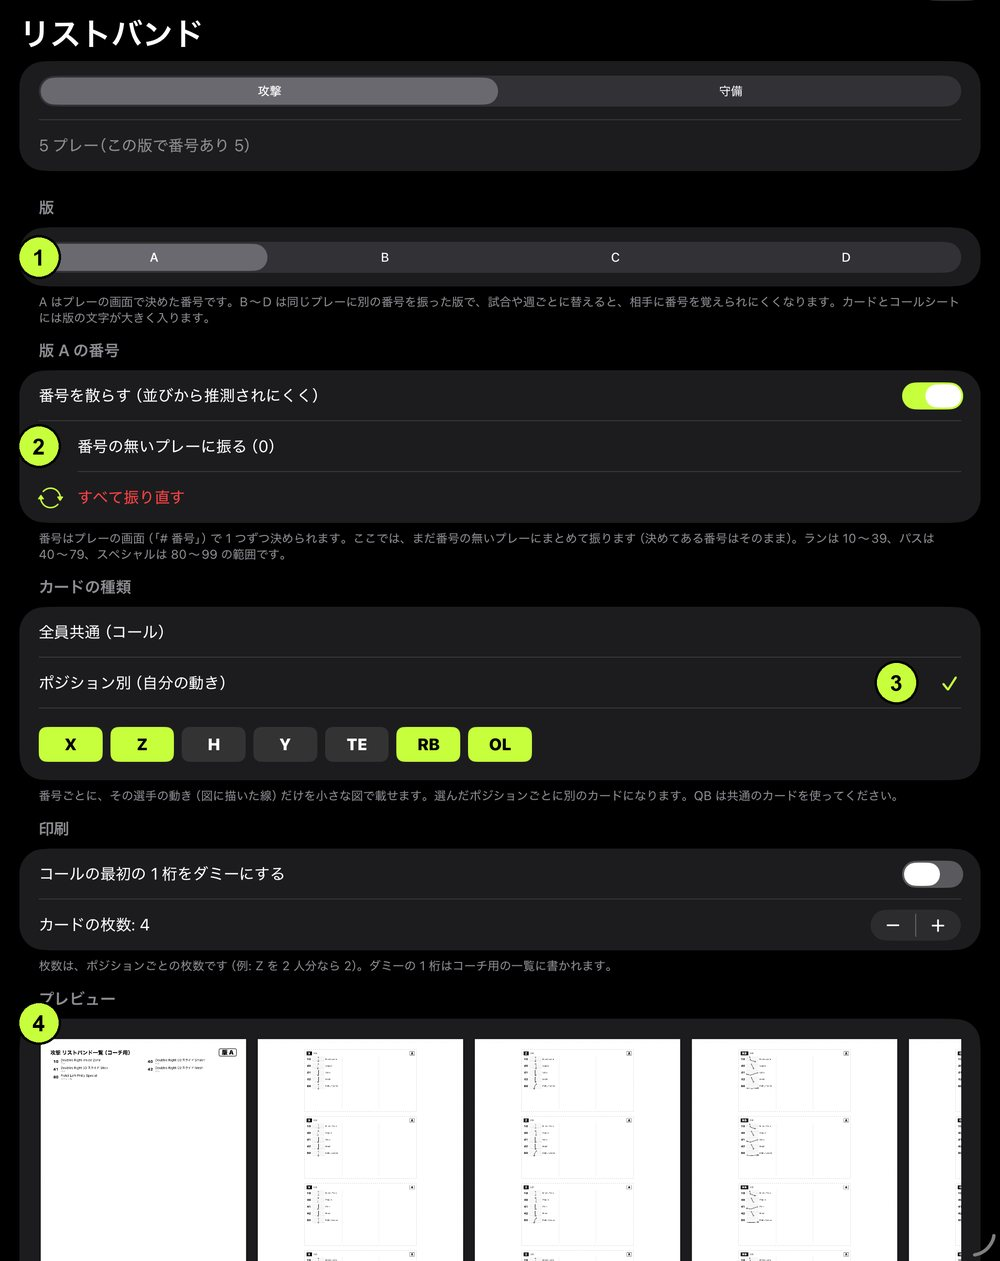
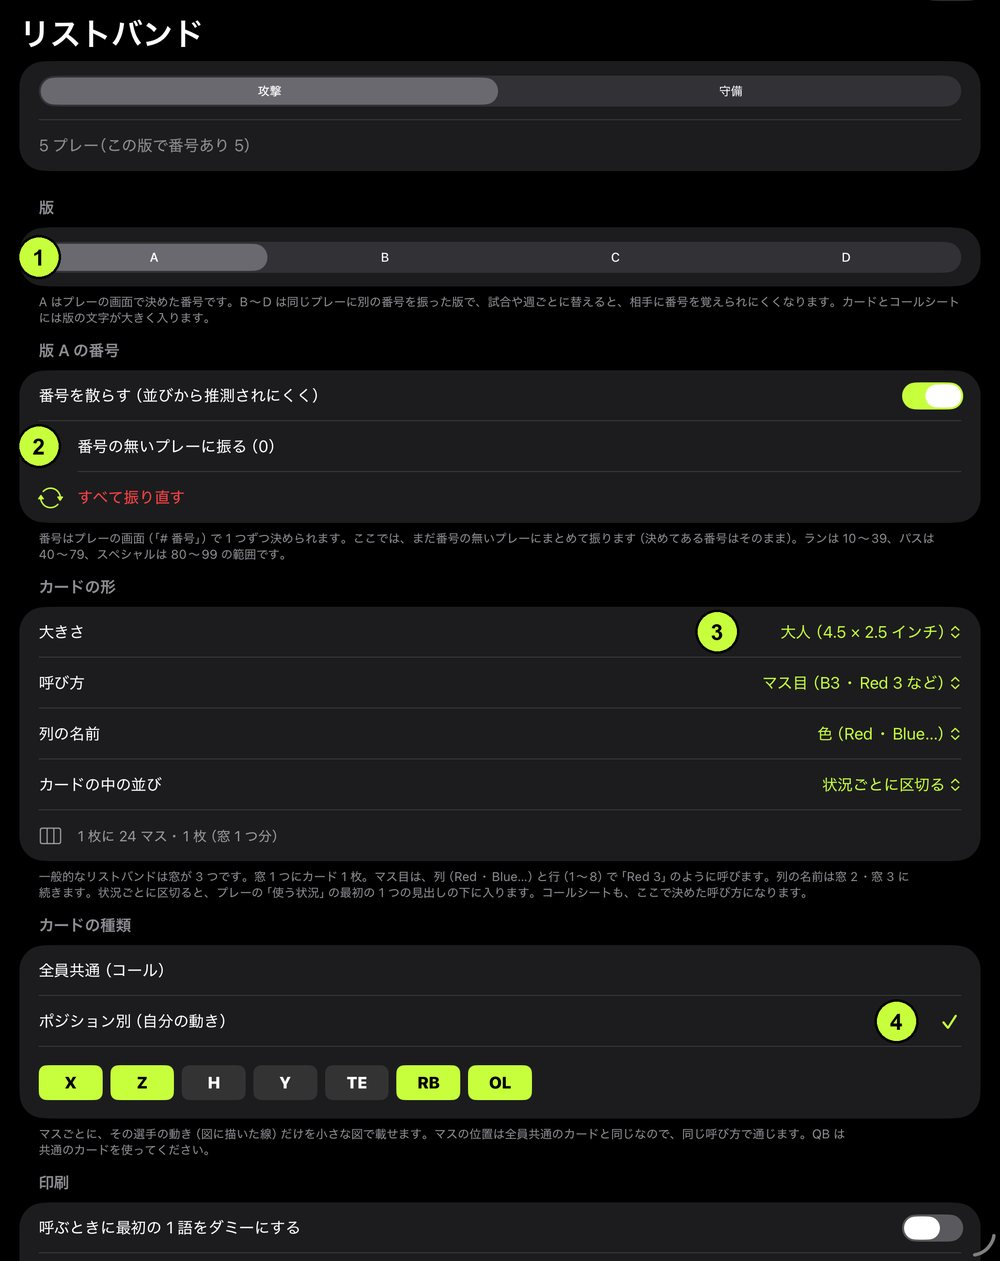
Playbook 使い方: リストバンドの大きさ・マス目・状況ごと・3 つの窓・Excel

diff --git a/playbook-pages/guide.html b/playbook-pages/guide.html
@@ -253,23 +253,35 @@
     <div class="step"><p><b>点線で切り取って、リストバンドに入れる</b></p><p>カードは 4.5 × 2.5 インチ（約 11.4 × 6.4 cm。一般的な窓のサイズ）。雨の日はラミネートするか、防水の窓のリストバンドを使うと安心です。1 ページ目のコーチ用の一覧は、サイドラインで番号を呼ぶ人が持ちます。</p></div>
   </div>
 
-  <figure><img src="img/guide_wristband_screen.jpg" alt="リストバンドの画面" loading="lazy" width="1000" height="1261"><figcaption>リストバンドの画面</figcaption></figure>
+  <figure><img src="img/guide_wristband_screen.jpg" alt="リストバンドの画面" loading="lazy" width="1000" height="1261"><figcaption>リストバンドの画面（マス目・色・状況ごとを選んだところ）</figcaption></figure>
   <ol class="keys">
     <li><b>版 A〜D</b><span class="new">次のアップデート</span> — 同じプレーに、版ごとに別の番号を振れます。A はプレーの画面で決めた番号、B〜D はこの画面で振ります。試合や週ごとに版を替えると、相手に番号を覚えられにくくなります。カードとコールシートには版の文字が入るので、どの版を着けているか一目で分かります</li>
     <li><b>番号を振る</b> — 番号の無いプレーにまとめて振ります。手で決めた番号はそのまま残ります<span class="new">次のアップデート</span>。「番号を散らす」で、並びから推測されにくくなります</li>
+    <li><b>カードの形</b><span class="new">次のアップデート</span> — 大きさ・呼び方・列の名前・カードの中の並び（下の表）。1 枚に何マス入り、窓が何枚になるかがすぐ下に出ます</li>
     <li><b>カードの種類</b><span class="new">次のアップデート</span> — 「全員共通」か「ポジション別」。ポジション別では、カードを作るポジション（X・Z・RB・OL など）を選びます</li>
-    <li><b>プレビュー</b> — 1 ページ目がコーチ用の一覧、2 ページ目から手首用のカード（A4 1 枚に 4 枚）です</li>
   </ol>
+  <table>
+    <tr><th>大きさ</th><td>大人（4.5 × 2.5 インチ・1 枚 24 マス）／ユース（3.5 × 2.25 インチ・12 マス）／大きめ（4.75 × 3 インチ・30 マス）。お使いのリストバンドの窓に合わせて選びます</td></tr>
+    <tr><th>呼び方</th><td><b>番号</b>: 「24」のように呼ぶ。<b>マス目</b>: 列と行で「B3」「Red 3」のように呼ぶ（アメリカのチームでよく使われる形）。列の名前は、窓 2・窓 3 に続きます（窓 1 が A〜C なら窓 2 は D〜F）</td></tr>
+    <tr><th>列の名前</th><td>マス目のとき、文字（A・B・C…）か色（Red・Blue・Green…）。色はカードの列の見出しにも色が付きます</td></tr>
+    <tr><th>カードの中の並び</th><td>番号順か、状況ごとに区切る（1st &amp; 10・3rd &amp; 中・レッドゾーンなどの見出しの下に並ぶ）。状況ごとでは、プレーは「使う状況」の最初の 1 つの見出しに入ります</td></tr>
+  </table>
+  <p>一般的なリストバンドは窓が 3 つで、窓 1 つにカード 1 枚を入れます。プレーが多いときは窓 2・窓 3 のカードに続きます（カードの右上に「窓 1/2」）。3 枚に入りきらないときは画面に知らせが出ます。「組数」は何人分作るかです。</p>
 
   <h3>全員共通のカードとポジション別のカード</h3>
+  <figure><img src="img/guide_card_grid.jpg" alt="全員共通のカード（マス目・色・状況ごと）" loading="lazy" width="900" height="1128"><figcaption>全員共通（QB 用）: マス目で「Red 3」と呼ぶ。黒い帯は状況の見出し</figcaption></figure>
   <div class="cards">
-    <figure><img src="img/guide_card_common.jpg" alt="全員共通のカード" loading="lazy" width="700" height="400"><figcaption>全員共通: 番号とコール（QB 用・全員が同じカードのとき）</figcaption></figure>
-    <figure><img src="img/guide_card_position_rb.jpg" alt="RB のポジション別カード" loading="lazy" width="700" height="400"><figcaption>ポジション別（RB）: 番号ごとに自分の動きだけの小さな図<span class="new">次のアップデート</span></figcaption></figure>
+    <figure><img src="img/guide_card_grid_z.jpg" alt="Z のカード" loading="lazy" width="900" height="580"><figcaption>ポジション別（Z）<span class="new">次のアップデート</span></figcaption></figure>
+    <figure><img src="img/guide_card_grid_rb.jpg" alt="RB のカード" loading="lazy" width="900" height="546"><figcaption>ポジション別（RB）<span class="new">次のアップデート</span></figcaption></figure>
   </div>
-  <p>ポジション別のカードには、作図で描いた線（ルート・ブロック・モーション）が小さな図で入ります。点線はスクリメージライン、丸がスタートの位置です。OL のカードは 5 人分のブロックと、プロテクションのコールが入ります。<b>線を描いておくほど、カードが役に立ちます。</b> QB は全員共通のカードを使います。</p>
+  <p><b>同じマスは、どのカードでも同じプレー</b>です。「Red 3」なら、QB のカードではコール、Z のカードでは Z のルート、RB のカードでは RB の動きが載っています。ポジション別のカードには、作図で描いた線（ルート・ブロック・モーション）が小さな図で入ります。点線はスクリメージライン、丸がスタートの位置です。OL のカードは 5 人分のブロックと、プロテクションのコールが入ります。<b>線を描いておくほど、カードが役に立ちます。</b></p>
+
   <h3>もっと読まれにくくする</h3>
   <p><b>版を替える:</b> 例えば「今週は版 B」と決め、選手は版 B のカード、コーチは版 B のコールシートを持ちます。次の試合は版 C に替えます。</p>
-  <p><b>ダミーの 1 桁:</b> 「コールの最初の 1 桁をダミーにする」をオンにすると、サイドラインでは「7・24」のように 3 桁で呼び、選手は最初の 1 桁を無視します。</p>
+  <p><b>ダミーの 1 つ:</b> 「最初の 1 つをダミーにする」をオンにすると、サイドラインでは「7・24」「7・B3」のように呼び、選手は最初の 1 つを無視します。</p>
+
+  <h3>Excel に書き出す<span class="new">次のアップデート</span></h3>
+  <p>リストバンドの画面の「Excel に書き出す」で、一覧（呼び方 → コール）と、窓ごとのマス目（カードと同じ並び）のシートができます。コールシートの画面にも「Excel に書き出す」があり、状況ごとの一覧（使ったかのチェック欄つき）になります。</p>
 
   <p class="last">© 2026 Playbook</p>
 </body>
